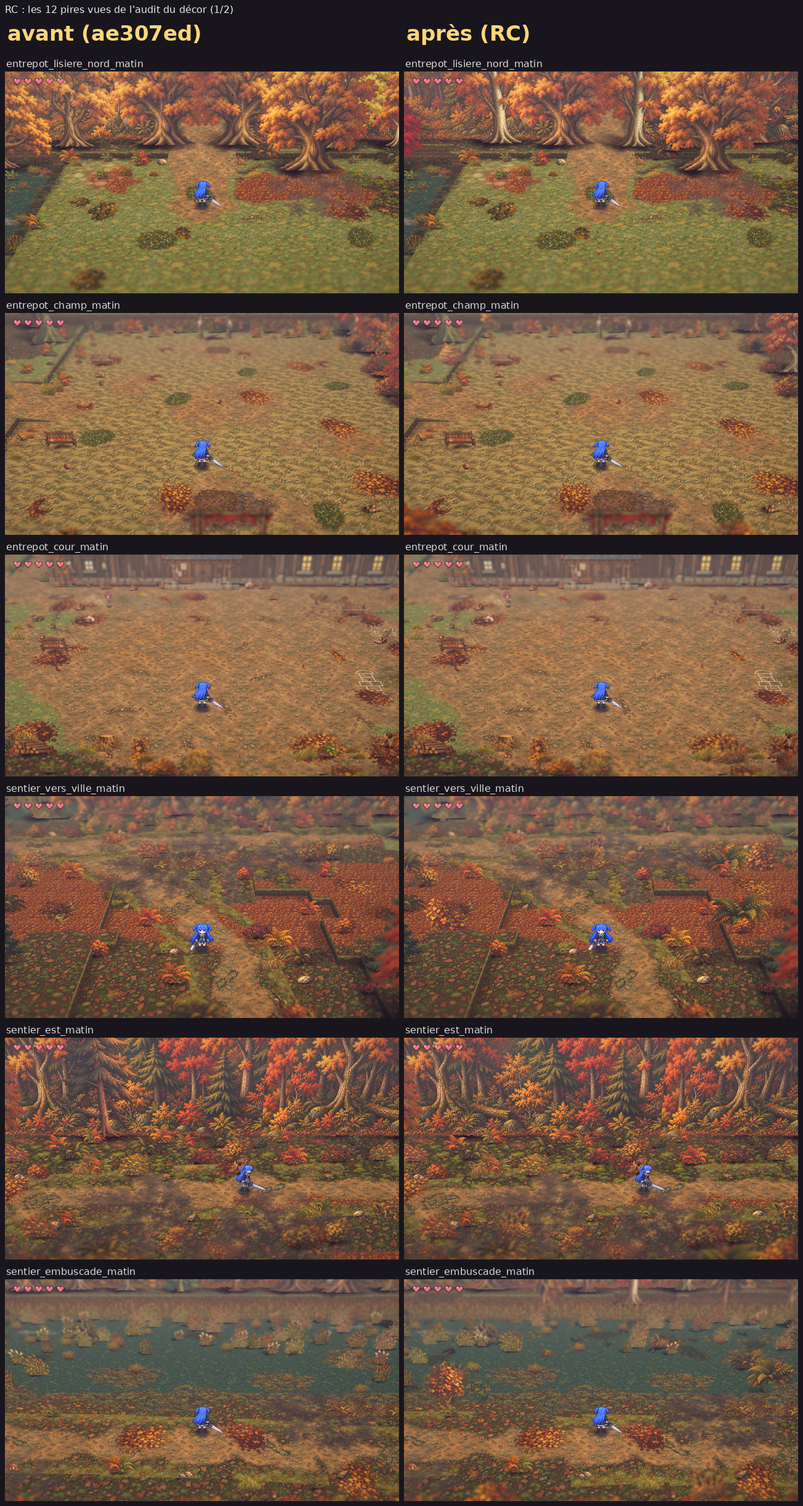
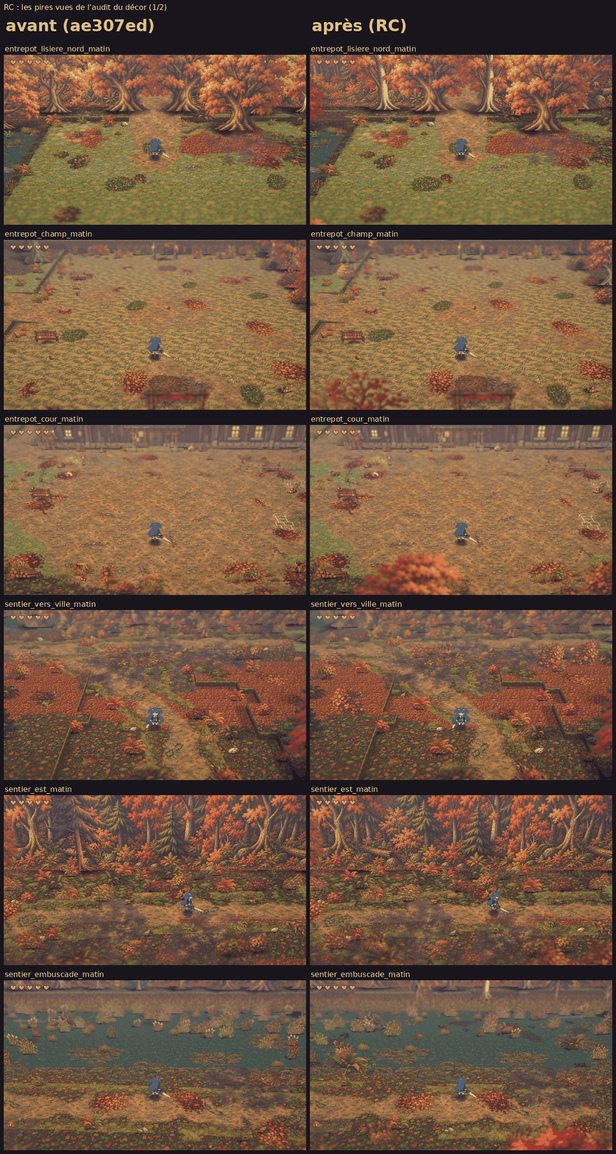
docs(rc): planches avant / après (docs/img/rc_*.png), chiffres du contrôle
Claude-Session: https://claude.ai/code/session_019NfiSKjta1ymK1rKpk9RxJ

diff --git a/docs/DECISIONS.md b/docs/DECISIONS.md
@@ -3381,7 +3381,7 @@ union entre lots) : `- **L<N> — sujet** : décision ; raison.`
 - **(RD) « Léger recul »** de la variation automatique : un écart en z (profondeur) de ± 0,2 à 0,3 m pour la végétation et les rochers, rien pour les clôtures, murs et lisières (ils s'enchaînent), plus un enfoncement de quelques centimètres ; l'échelle du genre ne remplace `scale_range` que s'il vaut 1.
 - **(RC) Les rangées sont des décors uniques, pas des PropScatter** : `exterior_kits.row` choisit l'image, le retournement, l'échelle et la teinte (`tone`) de chaque élément en Python (graine fixe) ; le contrôle sait donc exactement quelle image est où, et le PropBatcher les fond comme le reste (pas de draw call de plus). Les familles de PropScatter (touffes, fleurs, cailloux) gardent leur tirage au lancement ; le contrôle les compte pour leur part.
 - **(RC) Une famille d'une seule image** (le plessis `fence_wattle`, la fonte `edge_railing`, le fer `town_railing`) ne peut pas « ne jamais revenir deux fois de suite » : elle se varie par des accents (pans de cordage ou de tôle au port, de balustre et de muret en ville, palissade de piquets et buissons poussés devant au village), le pas, le recul, l'échelle, la teinte et le retournement. Une clôture qui ferme n'a jamais de trou (pièces qui se chevauchent) ; un garde-fou au bord du vide ou d'une terrasse ne recule que d'un côté. Essai écarté : un pan de muret clair sur deux dans le garde-corps de fer faisait un damier.
-- **(RC) Seuils du contrôle** : au plus 8 fois la même image (panneau de 0,75 m ou plus : les touffes, fleurs et cailloux plus bas se lisent comme une texture) dans le champ d'une vue QC ; au moins 2 objets de 1,5 m ou plus au sud du joueur, visibles au bas de l'écran. À la base (ae307ed) : 23 répétitions (jusqu'à `town_railing` × 20) et 67 vues sans premier plan ; après : aucune, hors exceptions dites (8 vues sans premier plan possible : bas d'écran sur une place où l'on joue ou sur la rue du port, pont du transport ; le bastingage du navire).
+- **(RC) Seuils du contrôle** : au plus 8 fois la même image (panneau de 0,75 m ou plus : les touffes, fleurs et cailloux plus bas se lisent comme une texture) dans le champ d'une vue QC ; au moins 2 objets de 1,5 m ou plus au sud du joueur, visibles au bas de l'écran. Sur les 88 vues de jeu du dehors, à la base (ae307ed) : 23 vues au-delà de 8 (jusqu'à `town_railing` × 20 à la librairie), 62 vues sous 2 objets hauts au sud (1,6 en moyenne) ; après : 4 vues au-delà de 8 (le bastingage du navire, toléré), 8 vues sous 2 (toutes tolérées et dites ; 3,2 en moyenne).
 - **(RC) Premier plan sans tronc** : un `fg_trunk_*` de 10 m à quelques mètres de la caméra inclinée penche de toute la hauteur de l'écran (perspective) ; le premier plan est fait de feuillages `fg_*` (3 à 5,6 m au sud du joueur) et d'arbres `_forest` plus loin, dont seule la couronne paraît. Les arbres qui bloquent ne vont que loin des chemins (1,6 m), des points et de la vie ; les feuillages sans collision ne vont jamais sur un chemin, une place ou un point. Au bord sud d'une carte, le premier plan se pose au-delà du bord (on n'y marche jamais).
 - **(RC) Le second rang de lisière est hors de la carte**, au nord de la première rangée (entrepôt z −1,6, sentier z 0,9, ville haute z −0,6) : les pans de forêt ont une collision, qui ne doit fermer aucune sortie (la trouée de la colline à l'entrepôt).
 - **(RC) Les vues sans premier plan possible** : entrepôt `facade`, `porche` (la cour et le duel), `lisiere_nord` (la clairière), `champ_est` (le champ) ; sentier `marais` (dans la place de l'embuscade) ; port `quai_ouest`, `hangar`, `passerelle`, `navire_passerelle` (la rue du port) ; transport `pont`, `poupe`, `proue`, `passerelle` (le vide).
